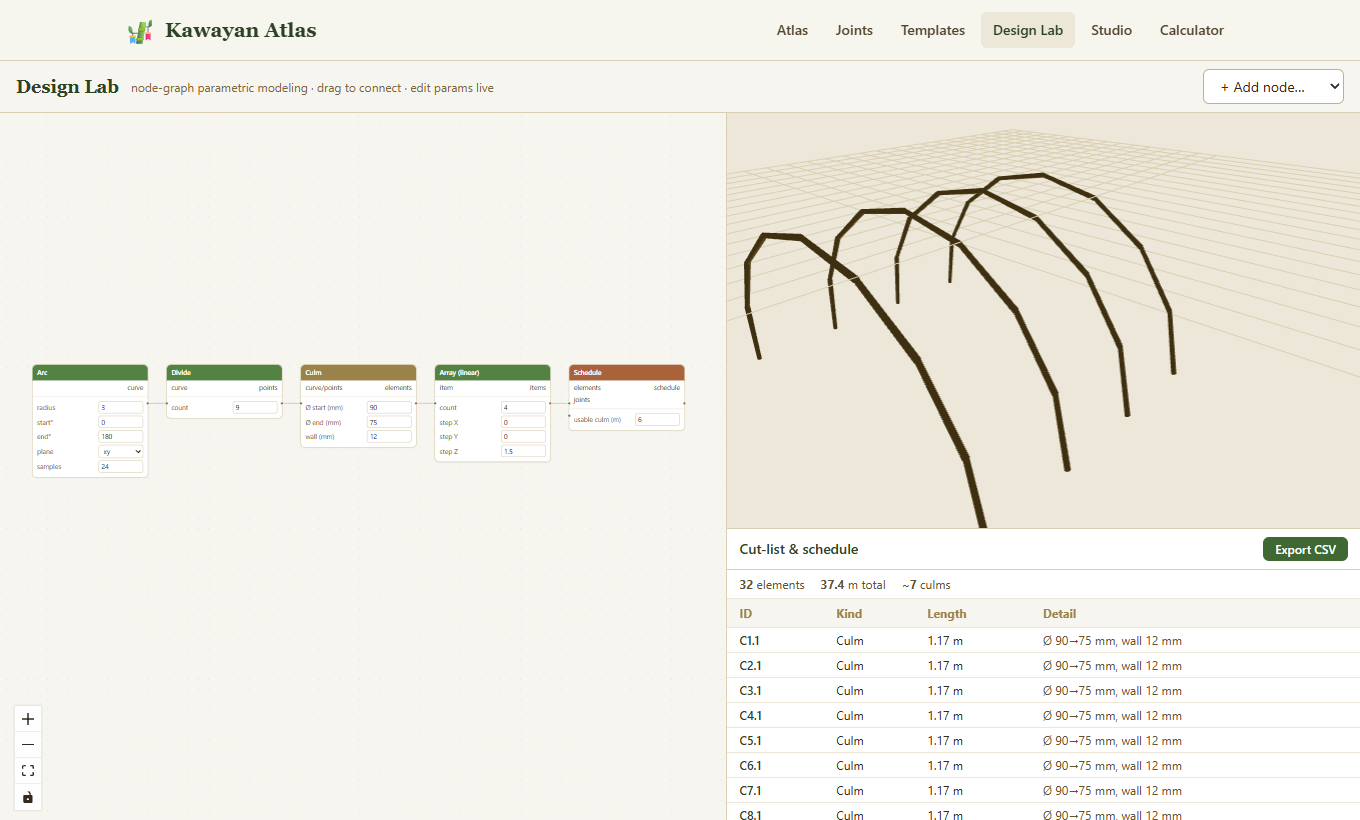
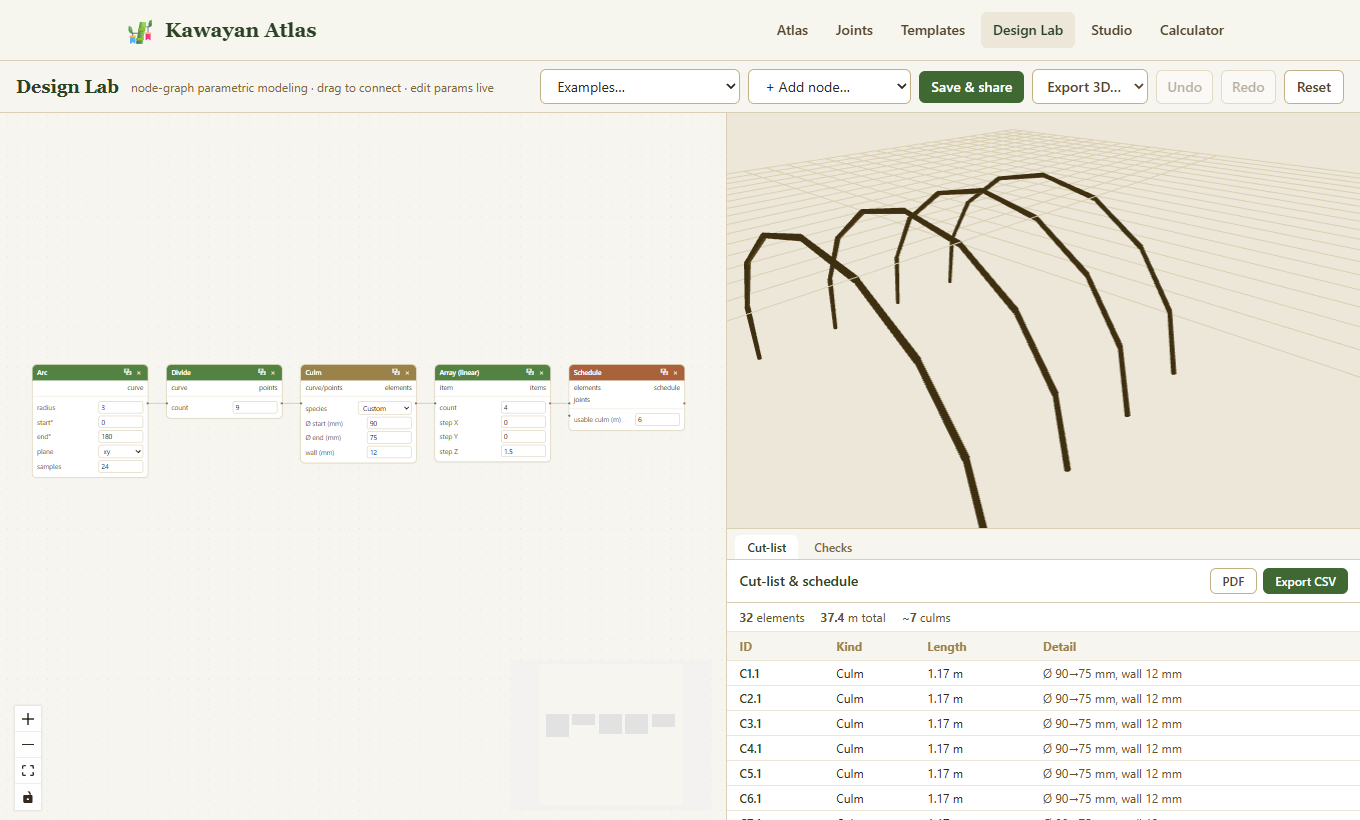
docs: bring README Design Lab section current + refresh screenshot
Document the full palette (weave/loft/analysis), atlas-linked culm, CSV/PDF/GLB/
DXF exports, undo/redo, and the seven examples; recapture design.png.

diff --git a/README.md b/README.md
@@ -22,15 +22,19 @@ entirely on free tiers. See [`PLAN.md`](PLAN.md) for the full product & build pl
 ### 🧩 Design Lab — browser node-graph platform
 A Grasshopper-style computational design tool built specifically for bamboo, in the
 browser — no install, no plugins. A **node-graph canvas** drives a **live 3D view** and a
-**fabrication cut-list**. It's built on the whitepaper's architecture, in dependency order:
+**fabrication cut-list**, built on the whitepaper's architecture in dependency order
+(geometry kernel → live evaluation engine → bamboo nodes → output).
 
-- **Geometry kernel** — primitives and operations (line, arc, grid, divide, transform, array, loft/sweep)
-- **Node-graph evaluation engine** — dependency-ordered, live re-evaluation on any change
-- **Bamboo-aware nodes** — `culm` (tapered tube along a curve), `strip` (flat ribbon), `joint`, `bundle`
-- **Fabrication output** — a `schedule` node produces a per-element cut-list (lengths, diameters, cut angles) exportable as **CSV**
+**Node palette:**
+- **Geometry** — line, arc, circle, rectangle, grid, divide, transform, array (linear/polar), mirror, extrude→posts, **loft**, **weave**
+- **Bamboo** — `culm` (tapered tube; **linked to the species atlas** — pick a species to auto-fill its cited diameter/wall), `strip` (flat ribbon), `joint`, `bundle`
+- **Analysis** (advisory) — `load`, `support`, `check`: coarse geometric slenderness flags anchored to **ISO 22156**, with a prominent "not a verified analysis" disclaimer; capacity is never computed (Phase 2 / whitepaper §9)
+- **Output** — `schedule` → per-element cut-list, exportable as **CSV / PDF**; the 3D model exports as **GLB** (mesh) or **DXF** (CAD lines)
 
-The proof chain `arc → divide → culm → array → schedule` ships preloaded, rendering a
-bamboo barrel-vault whose every parameter is live-editable.
+**Editor:** live dependency-ordered re-evaluation, autosave + shareable links, undo/redo,
+wire-type validation, node delete/duplicate, a minimap, and seven worked examples
+(barrel vault, lofted shell, post & beam, woven screen, column ring, checked posts). The
+proof chain `arc → divide → culm → array → schedule` ships preloaded.
 
 ![Design Lab](docs/screenshots/design.png)
 
